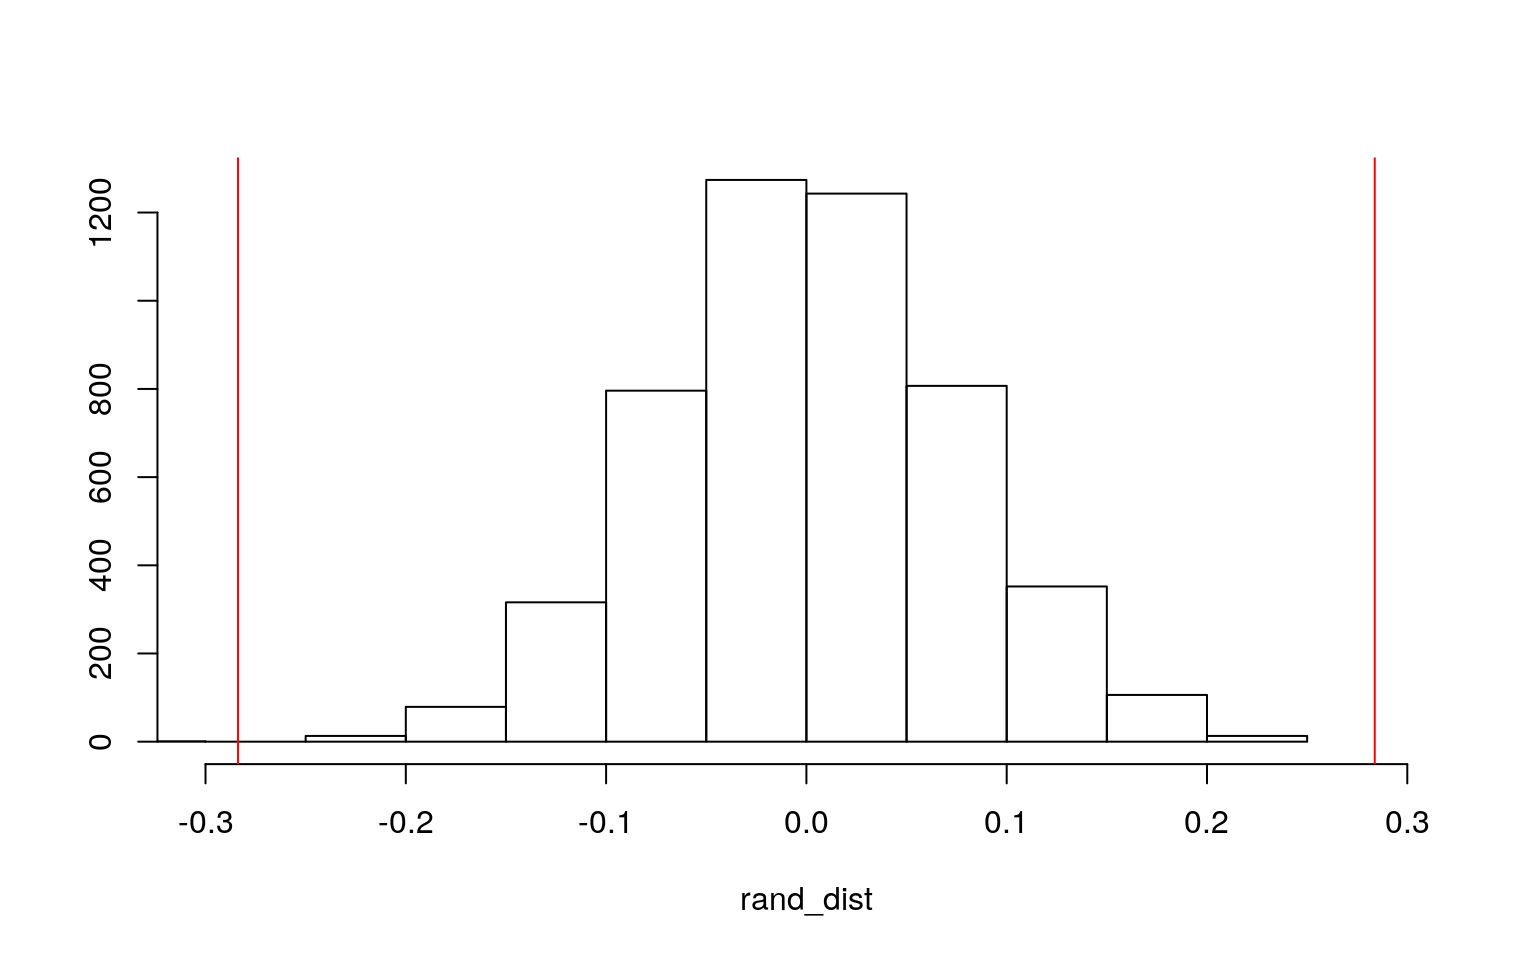
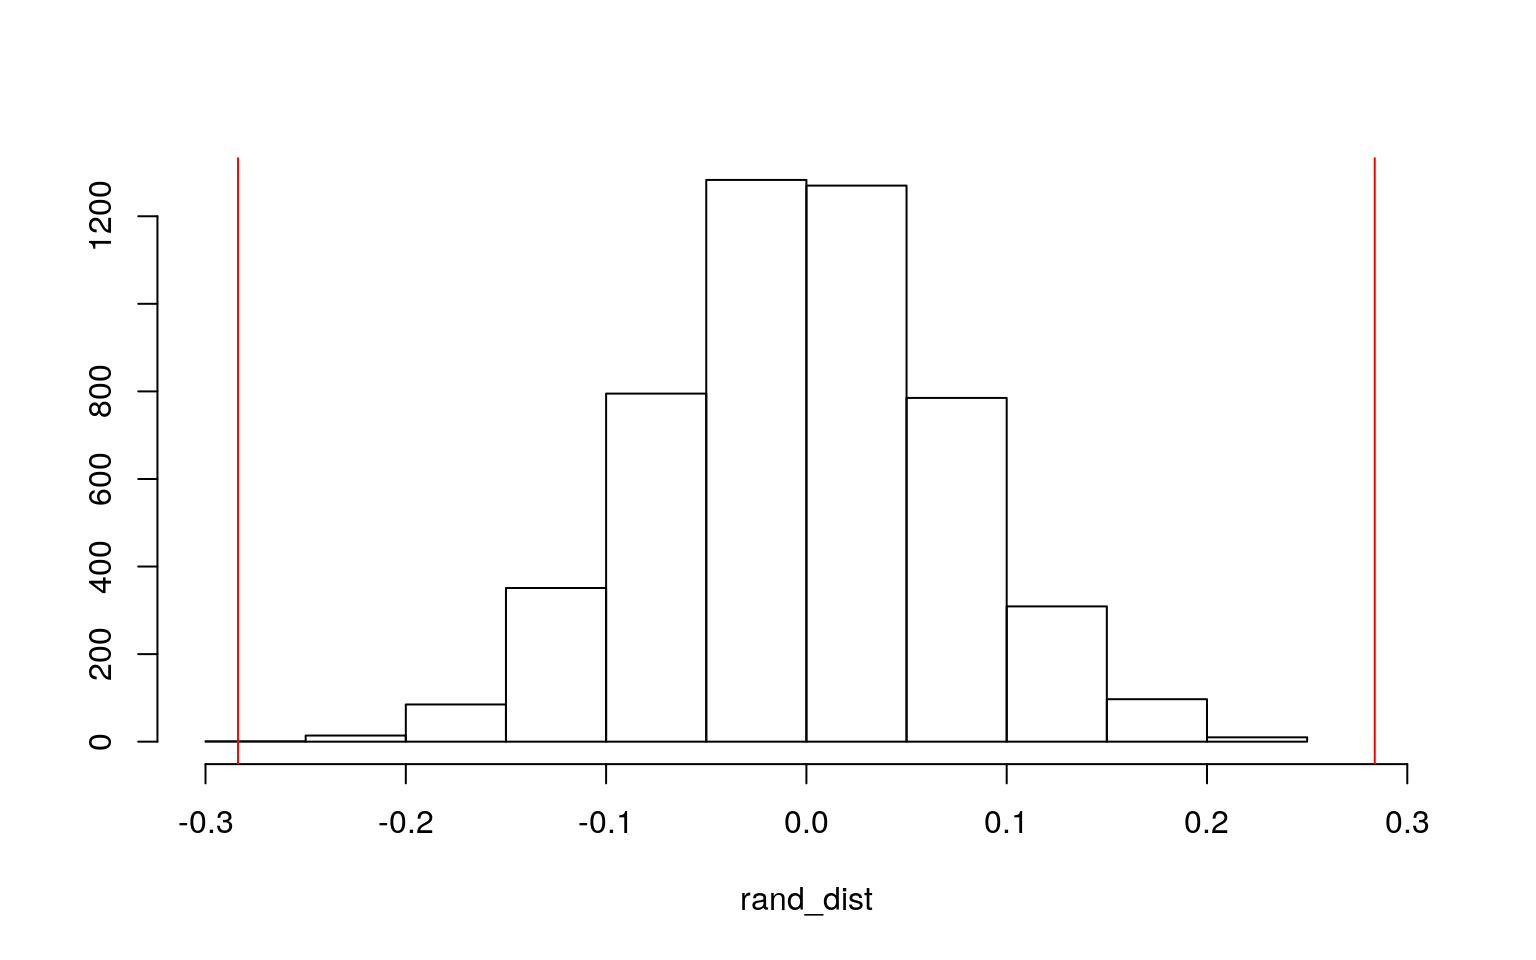
lastedit

diff --git a/project/project2/index.html b/project/project2/index.html
@@ -60,7 +60,7 @@
  
 <div class="blog-title">
           <h4>
-         January 1, 0001 
+         November 18, 2020 
             &nbsp;&nbsp;
             
           </h4>
@@ -154,7 +154,7 @@ MedGPA %&gt;% group_by(Accept) %&gt;% summarize(means = mean(GPA)) %&gt;%
 ##       &lt;dbl&gt;
 ## 1    -0.284</code></pre>
 <pre class="r"><code>mean(rand_dist &gt; 0.28375 | rand_dist &lt; -0.28375)</code></pre>
-<pre><code>## [1] 2e-04</code></pre>
+<pre><code>## [1] 0</code></pre>
 <pre class="r"><code>{
     hist(rand_dist, main = &quot;&quot;, ylab = &quot;&quot;, xlim = c(-0.3, 0.3))
     abline(v = c(-0.28375, 0.28375), col = &quot;red&quot;)
@@ -232,7 +232,7 @@ qqline(resids, col = &quot;red&quot;)</code></pre>
 
 samp_distn %&gt;% t %&gt;% as.data.frame %&gt;% summarize_all(sd)</code></pre>
 <pre><code>##   (Intercept)     SexM    GPA_c SexM:GPA_c
-## 1   0.6795803 1.031741 3.287749   4.315233</code></pre>
+## 1    0.656757 1.018496 3.270398   4.174336</code></pre>
 <p>The regression was then rerun using bootstrapped standard errors by resampling the observations. The standard error for SexM decreased very slightly compared to the original sample, meaning the p-value likely decreased. The standard error for GPA_c and the standard error for the interaction between SexM and GPA_c increased, meaning the p-value for each of these increased.</p>
 <pre class="r"><code>MedGPA$MCAT_c &lt;- MedGPA$MCAT - mean(MedGPA$MCAT)
 fit &lt;- glm(Acceptance ~ GPA_c + MCAT_c, data = MedGPA, family = &quot;binomial&quot;)

diff --git a/project/index.html b/project/index.html
@@ -59,7 +59,7 @@
               <div class="row">
                 <div class="col-sm-4 col-md-4 col-lg-4">
                   <h5 style="text-align: right">
-                    January 1, 0001
+                    November 18, 2020
                   </h5>
                  </div>
                  <div class="col-sm-8 col-md-8 col-lg-8">
@@ -72,7 +72,7 @@
               <div class="row">
                 <div class="col-sm-4 col-md-4 col-lg-4">
                   <h5 style="text-align: right">
-                    January 1, 0001
+                    October 18, 2020
                   </h5>
                  </div>
                  <div class="col-sm-8 col-md-8 col-lg-8">

diff --git a/project/project1/index.html b/project/project1/index.html
@@ -60,7 +60,7 @@
  
 <div class="blog-title">
           <h4>
-         January 1, 0001 
+         October 18, 2020 
             &nbsp;&nbsp;
             
           </h4>
